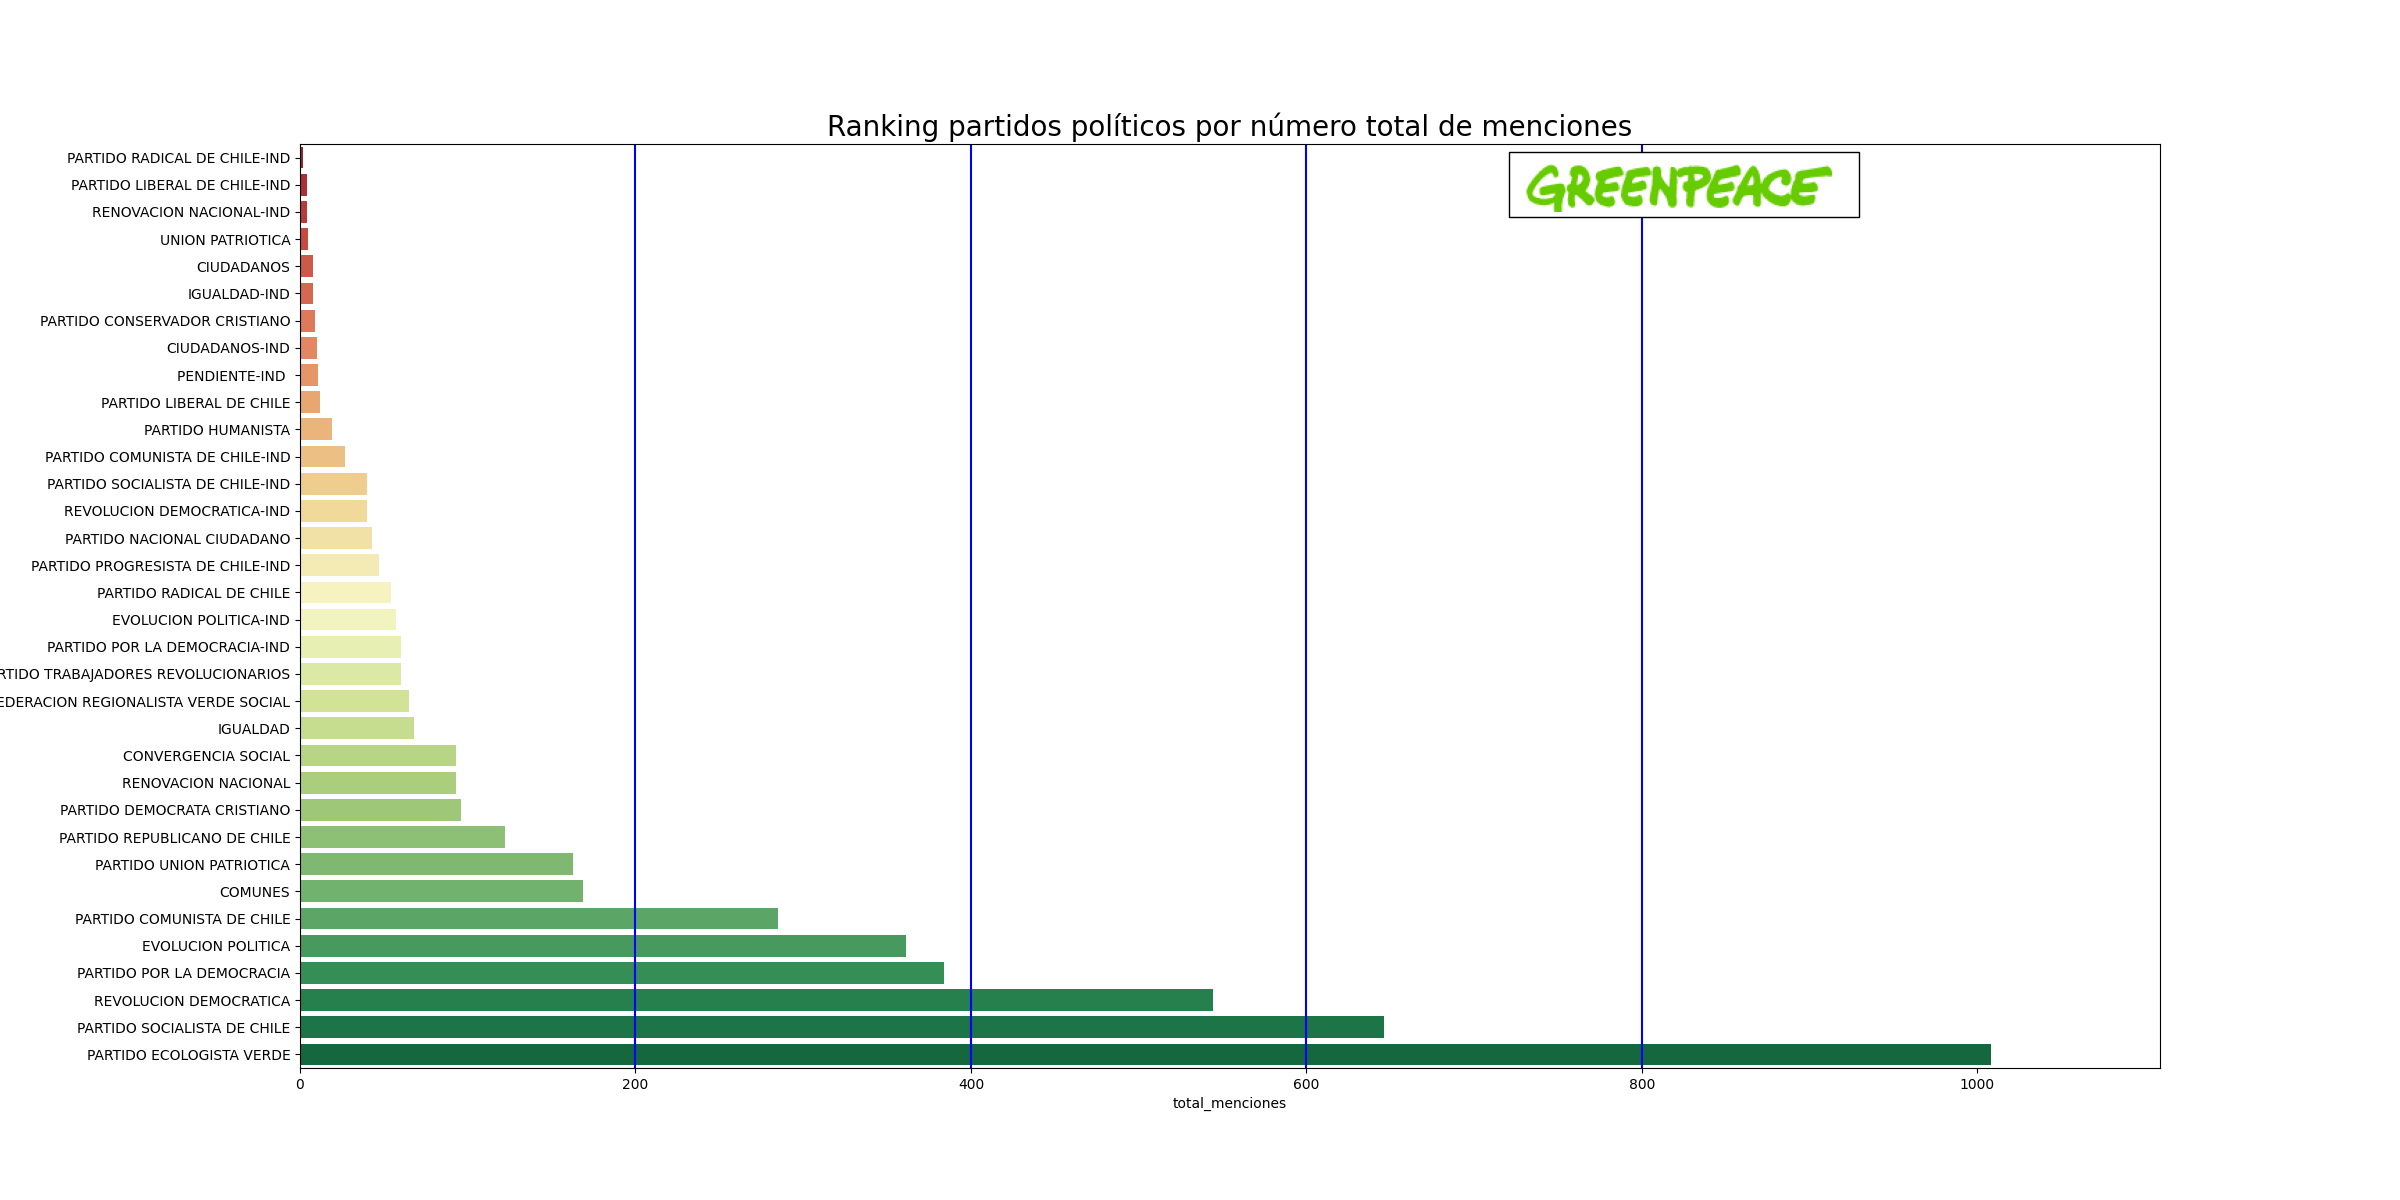
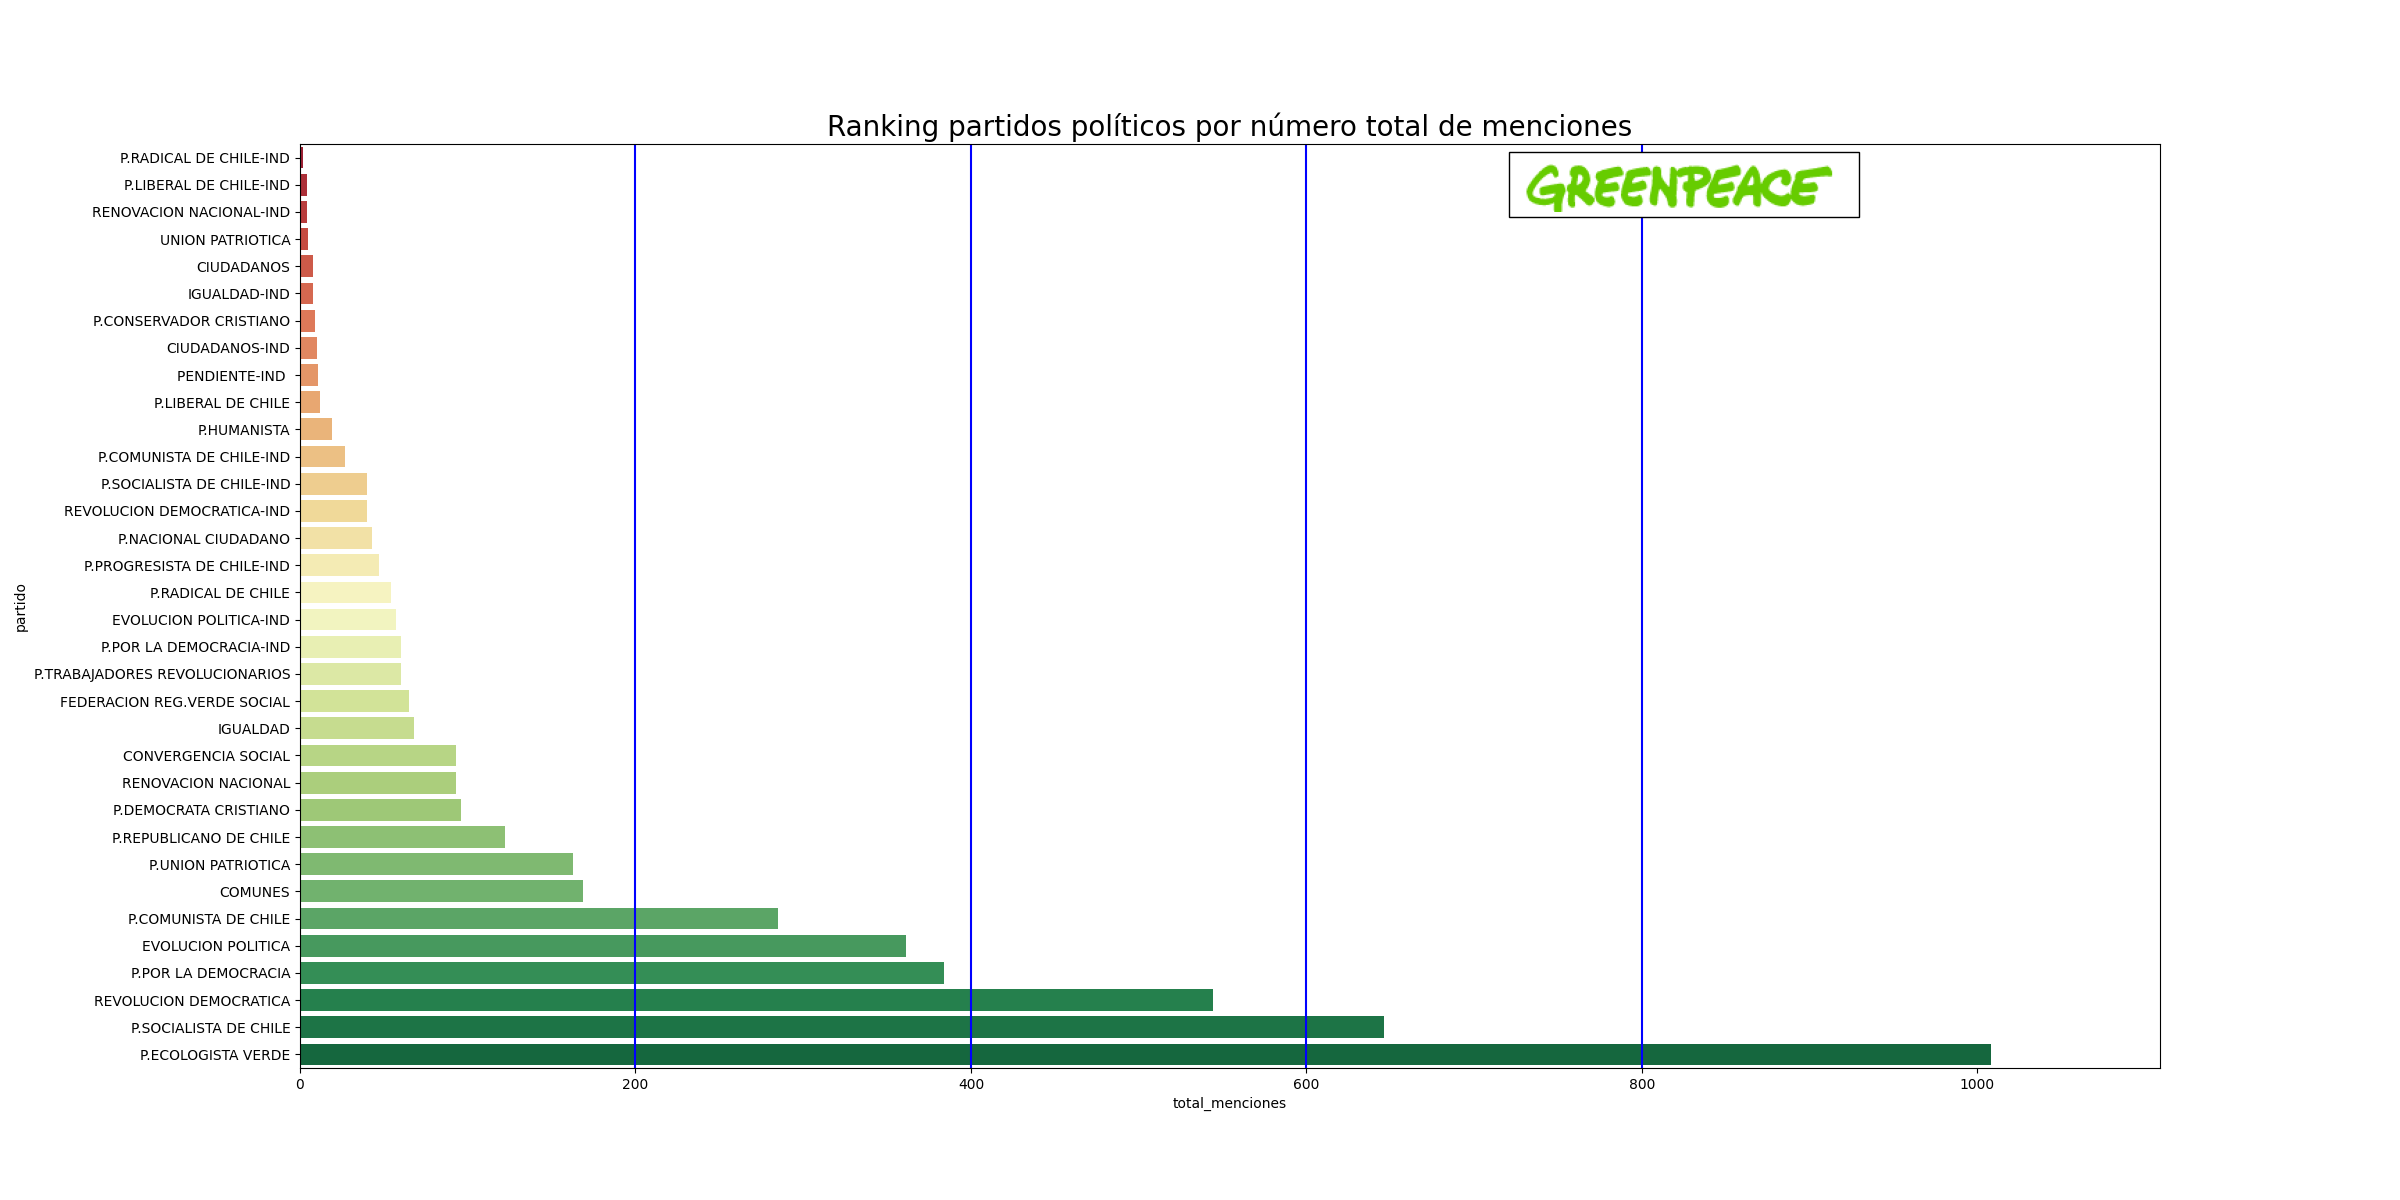
cleanUup

diff --git a/plotters.py b/plotters.py
@@ -40,7 +40,7 @@ for conc, mens in kw.items():
         xdf_word = xdf.texto.apply(lambda t: len(get_matches(word, t, 50)))  # no EXCEPTIONS!!
         xconc = [x+y for x,y in zip(xconc, xdf_word.values)]
     xdf[conc] = xconc
-print(xdf[xdf.partido=='UNION DEMOCRATICA INDEPENDIENTE'])
+#print(xdf[xdf.partido=='UNION DEMOCRATICA INDEPENDIENTE'])
 
 xdf['partido'] = xdf.partido.apply(lambda p: p.split('IND ')[1]+'-IND' if 'IND ' in p else p) # fixer
 xdf['lista'] = xdf.lista.apply(lambda x: x.split('(')[0] if '(' in x else x)
@@ -94,7 +94,6 @@ for lista, dxdf in xdf.groupby('lista'):
     plt.close()
 
 
-
 sdf=xdf.groupby('partido').sum()
 sdf[sdf.columns[1:]].head()
 
@@ -113,8 +112,10 @@ plt.close()
 fig, ax = plt.subplots(1, figsize=(24,12))
 pidf = psdf[psdf.index!='INDEPENDIENTES']
 pidf.to_csv('resument_partidos_sin_ind.pdf',index=False)
+print('B4:', pidf.index)
 pidf.index = [p.replace('PARTIDO ','P.').replace('REGIONALISTA ','REG.') for p in pidf.index]
-
+print('A5:', pidf.index)
+#don
 p = sns.heatmap(psdf[psdf.index!='INDEPENDIENTES'][temas].replace(0, np.nan),                   # PLOT1: por partido
               annot=True, annot_kws={'size':16, 'weight': 'bold'}, cmap='RdYlGn', fmt='.0f');
 plt.xticks(rotation=45); plt.title('Menciones ambientales por tema y partido (excluye independientes)', size=24);

diff --git a/searcher.py b/searcher.py
@@ -52,15 +52,15 @@ def get_matches(squery, texto, WIDTH):
 
     if len(fmatches):
             ftextos = [op(f) for f in fmatches]
-            print('FT:', ftextos)
+            #print('FT:', ftextos)
             qfix = fixers.get(squery,[])
             bad_mat = []
             for qf in qfix:
                 bad_mat += [x for x in ftextos if qf in x]
             if len(bad_mat): # must remove, use zip
-                print(squery, bad_mat)
+                #print(squery, bad_mat)
                 fmatches = [f for f in fmatches if op(f) not in bad_mat]
-                print('FMAT2:', fmatches)
+                #print('FMAT2:', fmatches)
                 #somebad
 
     return fmatches
